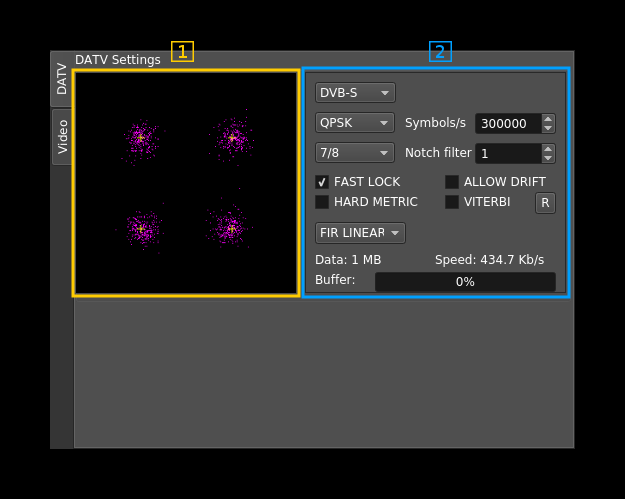
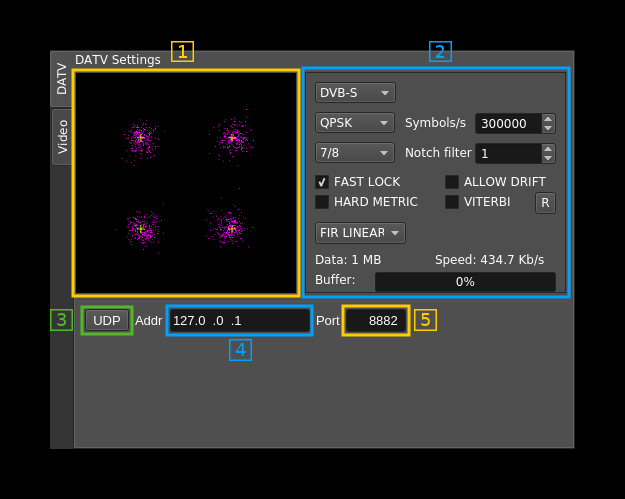
DATV demod: updated documentation. Updated changelogs and version

Changed region(s): [[0.0608, 0.6012, 0.6992, 0.7214]]

diff --git a/plugins/channelrx/demoddatv/readme.md b/plugins/channelrx/demoddatv/readme.md
@@ -40,6 +40,18 @@ Power of signal received in the channel (dB)
 
 ![DATV Demodulator plugin DATV GUI](../../../doc/img/DATVDemod_pluginDATV.png)
 
+<h4>B.3: Output transport stream to UDP</h4>
+
+Activate output of transport stream to UDP with 7 TS blocks per UDP frame
+
+<h4>B.4: UDP address</h4>
+
+This is the address of the TS UDP
+
+<h4>B.5: UDP port</h4>
+
+This is the port of the TS UDP
+
 <h4>B.1: Symbol constellation</h4>
 
 This is the constellation of the PSK or QAM synchronized signal. When the demodulation parameters are set correctly (modulation type, symbol rate and filtering) and signal is strong enough to recover symbol synchronization the purple dots appear close to the white crosses. White crosses represent the ideal symbols positions in the I/Q plane.
@@ -143,17 +155,17 @@ The mode and rate selection can be done manually but if a discrepancy in the num
 
 The controls specific to DVB-S are disabled and greyed out. These are: Fast Lock, Allow Drift, Hard Metric and Viterbi.
 
-<h4>B.2c: DATV video stream</h4>
+<h3>C: DATV video stream</h3>
 
 ![DATV Demodulator plugin video GUI](../../../doc/img/DATVDemod_pluginVideo.png)
 
-<h5>B.2c.1: Image</h5>
+<h4>C.1: Image</h4>
 
 The decoded video is displayed here
 
-<h5>B.2c.2: Stream information</h5>
+<h4>C.2: Stream information</h4>
 
-<h5>B.2c.3: Stream decoding status</h5>
+<h4>C.3: Stream decoding status</h4>
 
 These non clickable checkboxes report the decoding status (checked when OK):
 
@@ -162,7 +174,7 @@ These non clickable checkboxes report the decoding status (checked when OK):
   - video: video data detected
   - decoding: video being decoded
 
-<h5>B.2c.4: Video mute</h5>
+<h4>C.4: Video mute</h4>
 
 Toggle button to pause/run video decoding. This also indicates the video status:
 
@@ -170,7 +182,7 @@ Toggle button to pause/run video decoding. This also indicates the video status:
   - Green: a video stream is present and successfully decoded
   - Red: a video stream is present but decoding fails
 
-<h5>B.2c.5: Audio mute</h5>
+<h4>C.5: Audio mute</h4>
 
 Toggle button to pause/run audio decoding. This also indicates the audio status:
 
@@ -180,11 +192,11 @@ Toggle button to pause/run audio decoding. This also indicates the audio status:
 
 In addition right clicking on the button will give you access to the audio device selection dialog
 
-<h5>B.2c.6: Audio volume</h5>
+<h4>C.6: Audio volume</h4>
 
 Show the audio volume on a 0 to 100 scale. The actual coefficient applied to the audio samples follows a logarithmic rule where 0 corresponds to 0.01, 50 to 0.1 and 100 to 1.0
 
-<h5>B.2c.7: Audio volume control</h5>
+<h4>C.7: Audio volume control</h4>
 
 Use this slider to control the value (0 to 100) of the audio volume.
 
